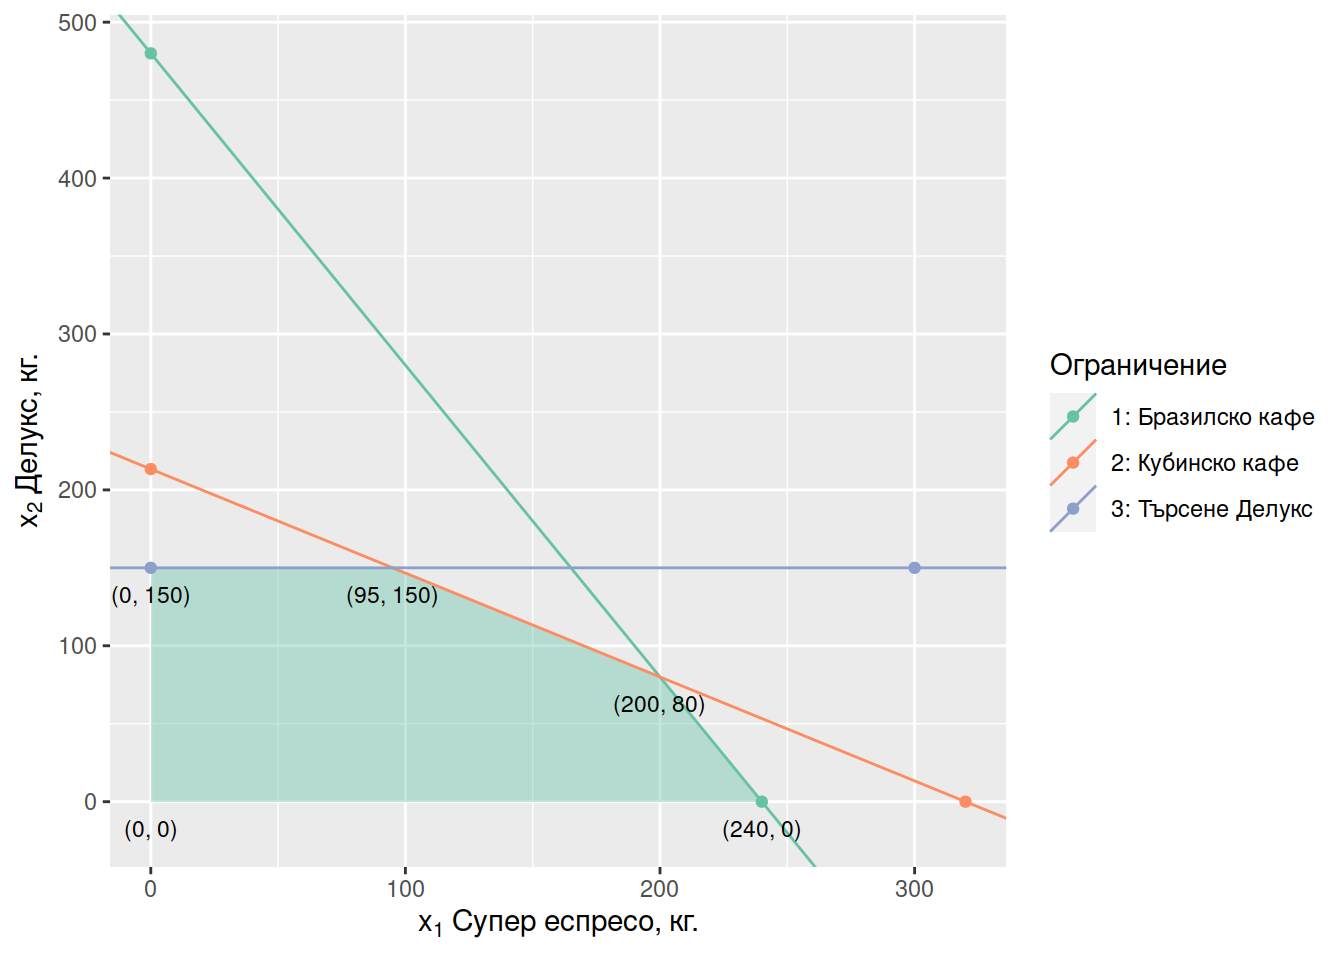
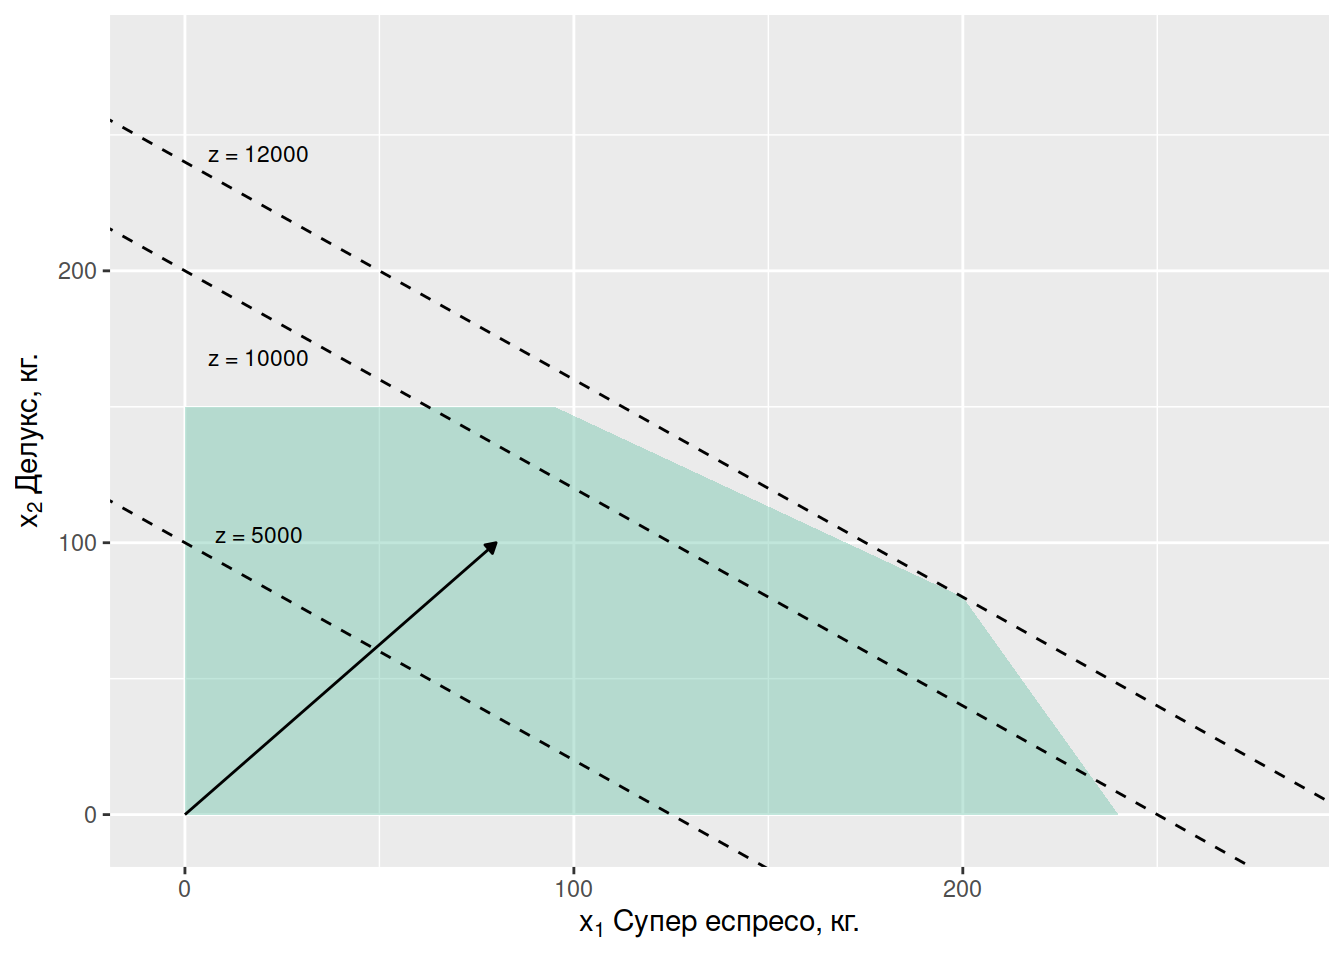
Update book

diff --git a/docs/графичен-метод.html b/docs/графичен-метод.html
@@ -233,10 +233,10 @@ x_2 \geq 0
 (0, 150), (100, 150)
 Тази права е успоредна на оста <span class="math inline">\(x_1\)</span>.</li>
 </ul>
-<div class="figure"><span style="display:block;" id="fig:unnamed-chunk-13"></span>
-<img src="linprog_files/figure-html/unnamed-chunk-13-1.png" alt="fig:feasible-set-lines" width="672" />
+<div class="figure"><span style="display:block;" id="fig:feasible-set-lines"></span>
+<img src="linprog_files/figure-html/feasible-set-lines-1.png" alt="Прави на ограниченията и допустимо множество." width="672" />
 <p class="caption">
-Figure 2.1: fig:feasible-set-lines
+Figure 2.1: Прави на ограниченията и допустимо множество.
 </p>
 </div>
 <p>Допустимото множество е определено от всички точки, които едновременно изпълняват
@@ -298,11 +298,11 @@ x_1 = 200.
 \]</span></p>
 <p>С това намерихме координатите на пресечната точка между правите на “кубинско кафе” и
 “търсене на Делукс”: (95, 150).</p>
-<p>Така получаваме, че върховете на допустимото множество (графика <a href="#fig:feasible-set"><strong>??</strong></a>) са (0, 0), (240, 0), (200, 80), (95, 150), (0, 150).</p>
-<div class="figure"><span style="display:block;" id="fig:unnamed-chunk-14"></span>
-<img src="linprog_files/figure-html/unnamed-chunk-14-1.png" alt="feasible-set" width="672" />
+<p>Така получаваме, че върховете на допустимото множество (графика <a href="графичен-метод.html#fig:feasible-set">2.2</a>) са (0, 0), (240, 0), (200, 80), (95, 150), (0, 150).</p>
+<div class="figure"><span style="display:block;" id="fig:feasible-set"></span>
+<img src="linprog_files/figure-html/feasible-set-1.png" alt="Допустимо множество и координати на върховете." width="672" />
 <p class="caption">
-Figure 2.2: feasible-set
+Figure 2.2: Допустимо множество и координати на върховете.
 </p>
 </div>
 </div>
@@ -310,7 +310,7 @@ Figure 2.2: feasible-set
 <h3><span class="header-section-number">2.1.3</span> Целева функция, нормален вектор</h3>
 <p>За да определим оптималния план графично ще начертаем прави, съответстващи на
 разпипчни нива на печалба, например</p>
-<p><img src="linprog_files/figure-html/unnamed-chunk-16-1.png" width="672" /></p>
+<p><img src="linprog_files/figure-html/unnamed-chunk-14-1.png" width="672" /></p>
 <p>Всички комбинации <span class="math inline">\(x_1\)</span> и <span class="math inline">\(x_2\)</span>, за които печалбата (целевата функция) е равна на 5000 лв.</p>
 <p><span class="math display">\[
 40x_1 + 50x_2 = 5000
